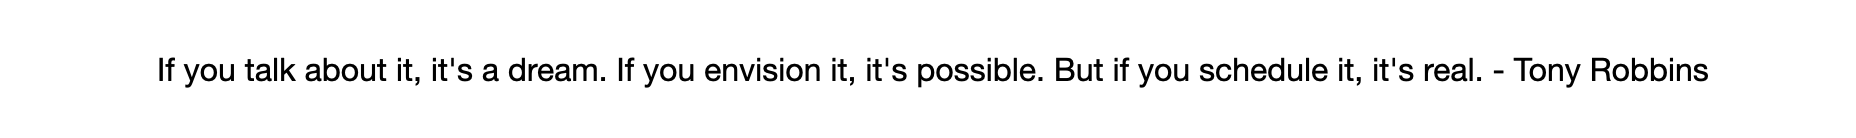
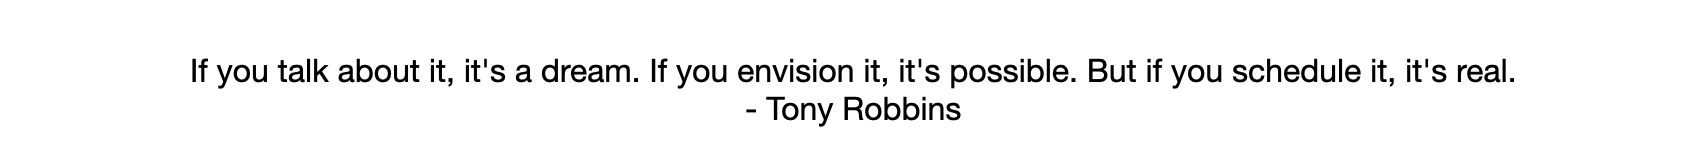
adjusted "About product section"

Changed region(s): [[0.0617, 0.3478, 0.9253, 0.7536]]

diff --git a/index.html b/index.html
@@ -131,7 +131,7 @@
     <section class="u-align-center u-clearfix u-section-6" src="" id="sec-d59c">
       <div class="u-clearfix u-sheet u-sheet-1">
         <h1 class="u-text u-text-default u-text-1">Thoughts on Product?</h1>
-        <img class="u-expanded-width u-image u-image-contain u-image-default u-image-1" src="images/image-11.png" alt="" data-image-width="1856" data-image-height="138">
+        <img class="u-expanded-width u-image u-image-contain u-image-default u-image-1" src="images/image-11.png" alt="" data-image-width="1686" data-image-height="168">
       </div>
     </section>
     <section class="u-clearfix u-section-7" id="sec-b8ff">
